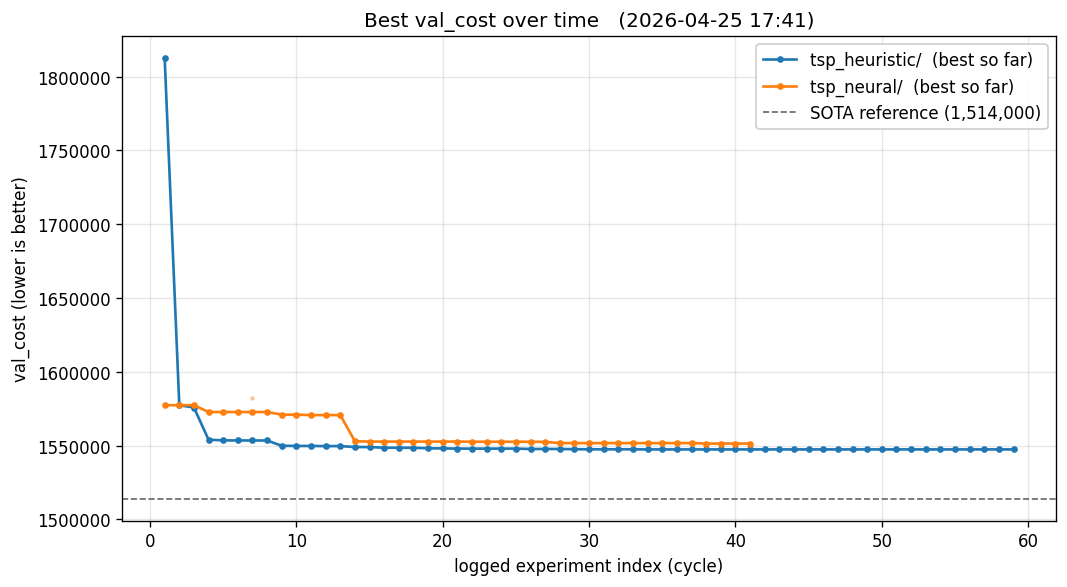
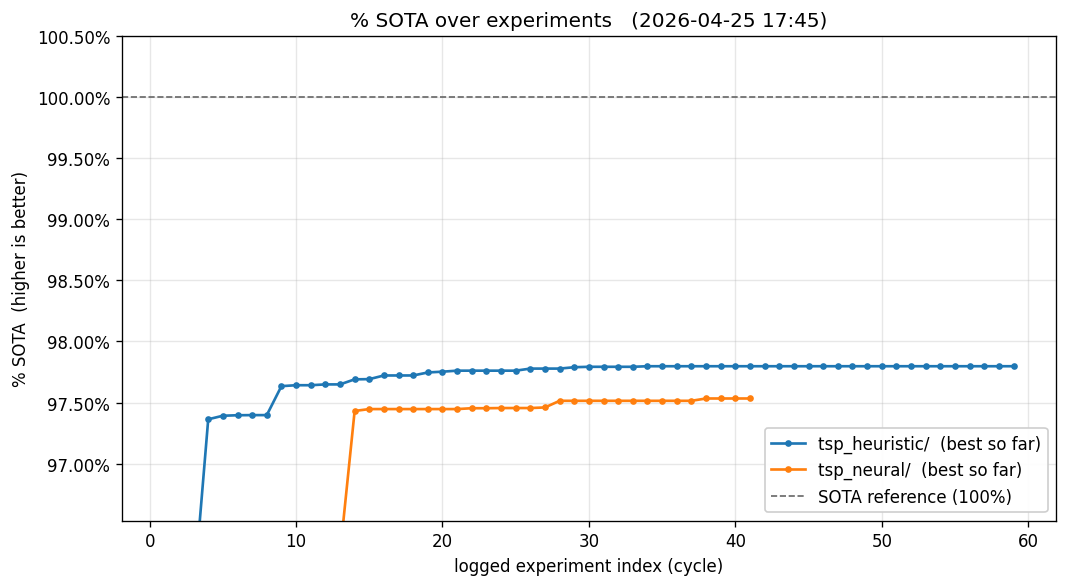
docs: chart — replace val_cost y-axis with % SOTA
Two improvements to the progress chart:

(1) Y-axis is now % SOTA (higher is better) instead of raw val_cost.
    Reference line at 100% (SOTA itself). Y-axis range auto-clipped
    to ~[best-1%, 100.5%] so movement near the top is visible.
    Format: "97.80%", "97.53%", etc.

(2) Best-so-far line now uses cummax over KEPT rows ONLY. Discards
    no longer pull the line down (previously used cummin over all
    non-zero rows including discards, which was misleading — a
    discarded experiment with low val_cost would dip the line even
    though the agent rejected it).

The chart-progress skill in both subprojects' .claude/skills/ doesn't
need updating — the script signature is unchanged.

diff --git a/scripts/chart_progress.py b/scripts/chart_progress.py
@@ -1,6 +1,10 @@
 """
-Generate progress.png at repo root showing best val_cost over cycle index
-for both tsp_heuristic and tsp_neural loops, with a SOTA reference line.
+Generate progress.png at repo root showing % SOTA over experiment index
+for both tsp_heuristic and tsp_neural loops, with the SOTA reference at 100%.
+
+% SOTA = 100 - gap, where gap = (val_cost - SOTA) / SOTA * 100. Higher is
+better. Best-so-far line uses cummax over KEPT rows only (discards don't
+update the running best).
 
 Usage (from repo root or any subdir):
     uv run --with matplotlib --with pandas python scripts/chart_progress.py
@@ -46,9 +50,16 @@ def load_loop(name: str, path: Path) -> pd.DataFrame | None:
         return None
     df = df.copy()
     df["cycle"] = range(1, len(df) + 1)
-    # Treat 0 as "crash" sentinel and ignore for best-so-far.
-    df["val_for_best"] = df["val_cost"].replace(0, pd.NA)
-    df["best"] = df["val_for_best"].cummin()
+
+    # Convert to % SOTA. Treat 0 (crash sentinel) as NaN.
+    val = df["val_cost"].replace(0, pd.NA).astype("Float64")
+    df["sota_pct"] = 100.0 - (val - SOTA) / SOTA * 100.0
+
+    # Best-so-far line: cummax of % SOTA, but ONLY keep-status rows can update
+    # the running best (discards don't survive — they shouldn't pull the line up).
+    mask_keep = df["status"].astype(str).str.lower() == "keep"
+    df["sota_for_best"] = df["sota_pct"].where(mask_keep)
+    df["best_pct"] = df["sota_for_best"].cummax().ffill()
     return df
 
 
@@ -56,17 +67,19 @@ def main() -> None:
     fig, ax = plt.subplots(figsize=(9, 5), dpi=120)
 
     summary_lines: list[str] = []
+    all_pcts: list[float] = []
 
     for name, path, color in LOOPS:
         df = load_loop(name, path)
         if df is None:
             print(f"skip: {name} (no data at {path})")
             continue
-        # Best-so-far line, only plot where best is finite.
-        mask = df["best"].notna()
+
+        # Best-so-far line — only plot where best is finite.
+        mask = df["best_pct"].notna()
         ax.plot(
             df.loc[mask, "cycle"],
-            df.loc[mask, "best"],
+            df.loc[mask, "best_pct"],
             marker="o",
             markersize=3,
             linestyle="-",
@@ -74,40 +87,50 @@ def main() -> None:
             color=color,
             label=f"{name}/  (best so far)",
         )
+
         # Overlay each kept run faintly for context.
-        keeps = df[(df["status"] == "keep") & (df["val_for_best"].notna())]
+        keeps = df[(df["status"].astype(str).str.lower() == "keep")
+                   & (df["sota_pct"].notna())]
         if len(keeps):
             ax.scatter(
                 keeps["cycle"],
-                keeps["val_cost"],
+                keeps["sota_pct"].astype(float),
                 marker=".",
                 s=12,
                 color=color,
                 alpha=0.35,
             )
-        best = df["val_for_best"].min()
-        gap = (best - SOTA) / SOTA * 100
-        sota_pct = 100 - gap
+
+        best_pct = float(df["sota_for_best"].max())
+        all_pcts.append(best_pct)
+        # Find the val_cost of the best-kept row for the summary line.
+        best_val = float(df.loc[df["sota_for_best"].idxmax(), "val_cost"])
         summary_lines.append(
-            f"{name:14s}  {len(df):3d} cycles  best={best:>11,.0f}  "
-            f"({sota_pct:.2f}% SOTA)"
+            f"{name:14s}  {len(df):3d} cycles  "
+            f"best={best_val:>11,.0f}  ({best_pct:.2f}% SOTA)"
         )
 
+    # SOTA reference at 100%.
     ax.axhline(
-        SOTA,
+        100.0,
         color="#666666",
         linestyle="--",
         linewidth=1.0,
-        label=f"SOTA reference ({SOTA:,})",
+        label="SOTA reference (100%)",
     )
 
+    # Y-axis: focus on the working range (~96-100%) so movement is visible.
+    if all_pcts:
+        floor = min(all_pcts) - 1.0
+        ax.set_ylim(max(floor, 90.0), 100.5)
+
     ax.set_xlabel("logged experiment index (cycle)")
-    ax.set_ylabel("val_cost (lower is better)")
+    ax.set_ylabel("% SOTA  (higher is better)")
     ts = datetime.now().strftime("%Y-%m-%d %H:%M %Z").strip()
-    ax.set_title(f"Best val_cost over time   ({ts})")
-    ax.legend(loc="upper right", framealpha=0.95)
+    ax.set_title(f"% SOTA over experiments   ({ts})")
+    ax.legend(loc="lower right", framealpha=0.95)
     ax.grid(True, alpha=0.3)
-    ax.ticklabel_format(axis="y", style="plain")
+    ax.yaxis.set_major_formatter(plt.FuncFormatter(lambda v, _: f"{v:.2f}%"))
 
     plt.tight_layout()
     plt.savefig(OUTPUT, dpi=120, bbox_inches="tight")
